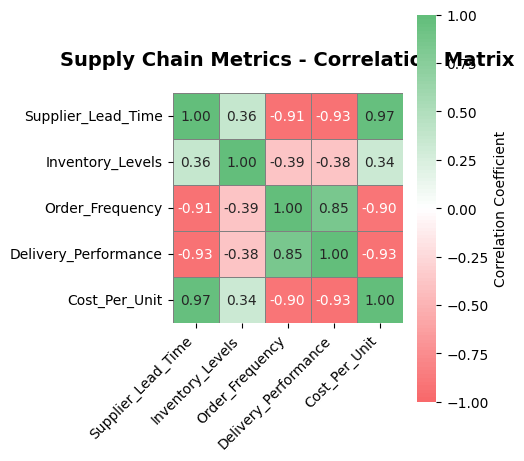
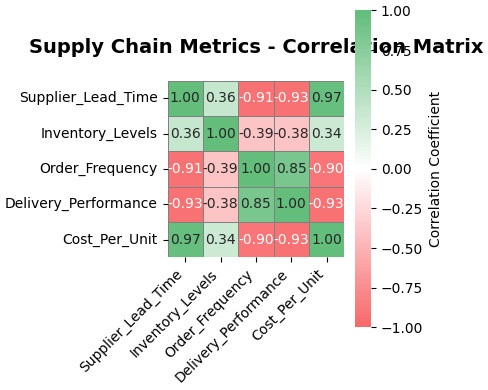
Add supply chain correlation analysis with Excel-style heatmap visualization

Changed region(s): [[0.0, 0.0, 0.9836, 0.9846], [0.8607, 0.8615, 0.9529, 0.8923]]

diff --git a/supply_chain_analysis.py b/supply_chain_analysis.py
@@ -56,8 +56,8 @@ colors = ['#F8696B', '#FFFFFF', '#63BE7B']  # Red - White - Green
 n_bins = 100
 cmap = LinearSegmentedColormap.from_list('excel_rwg', colors, N=n_bins)
 
-# Create figure with specific size (512x512 pixels at 100 DPI = 5.12 inches)
-fig, ax = plt.subplots(figsize=(5.12, 5.12), dpi=100)
+# Create figure with specific size (4.5x4.5 inches at 100 DPI for ~450x450 pixels)
+fig, ax = plt.subplots(figsize=(4.5, 4.5), dpi=100)
 
 # Create heatmap
 sns.heatmap(correlation_matrix, 
@@ -86,17 +86,35 @@ plt.yticks(rotation=0)
 # Tight layout
 plt.tight_layout()
 
-# Save heatmap as PNG
+# Save heatmap as PNG with constrained size
 print("Saving heatmap to heatmap.png...")
-plt.savefig('heatmap.png', dpi=100, bbox_inches='tight')
-print("✓ heatmap.png saved successfully (512x512 pixels)")
+plt.savefig('heatmap.png', dpi=100, bbox_inches='tight', pad_inches=0.05)
+print("✓ heatmap.png saved successfully")
 
 plt.close()
 
-# Verify file dimensions
+# Verify and resize if needed to ensure under 512x512
 from PIL import Image
 img = Image.open('heatmap.png')
-print(f"\nHeatmap dimensions: {img.size[0]}x{img.size[1]} pixels")
+width, height = img.size
+print(f"\nInitial heatmap dimensions: {width}x{height} pixels")
+
+# If image is larger than 512x512, resize it
+if width > 512 or height > 512:
+    print("Resizing image to fit within 512x512...")
+    # Calculate scaling to fit within 512x512 while maintaining aspect ratio
+    scale = min(512/width, 512/height)
+    new_width = int(width * scale * 0.95)  # 95% to ensure it's under 512
+    new_height = int(height * scale * 0.95)
+    img = img.resize((new_width, new_height), Image.Resampling.LANCZOS)
+    img.save('heatmap.png')
+    print(f"✓ Resized to: {new_width}x{new_height} pixels")
+else:
+    print("✓ Image dimensions are within requirements")
+
+# Final verification
+img = Image.open('heatmap.png')
+print(f"\nFinal heatmap dimensions: {img.size[0]}x{img.size[1]} pixels")
 
 print("\n" + "="*60)
 print("ANALYSIS COMPLETE!")
